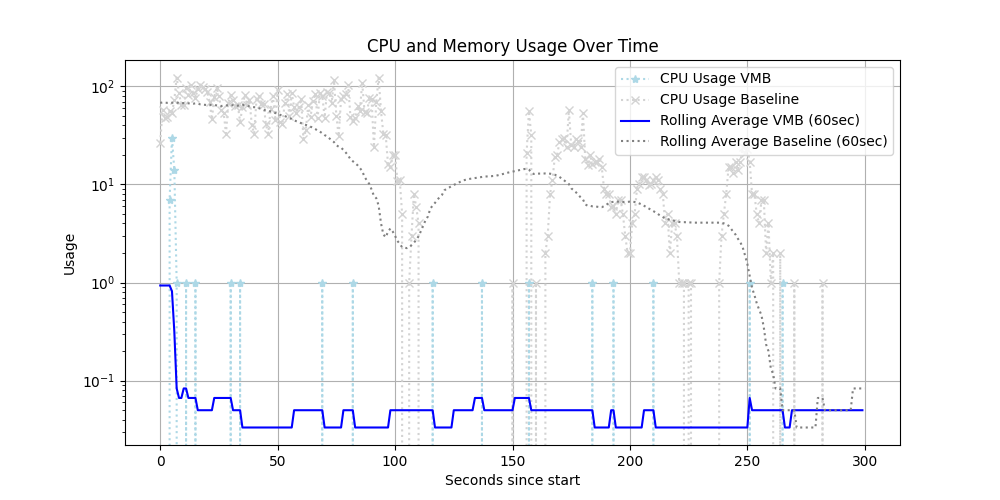
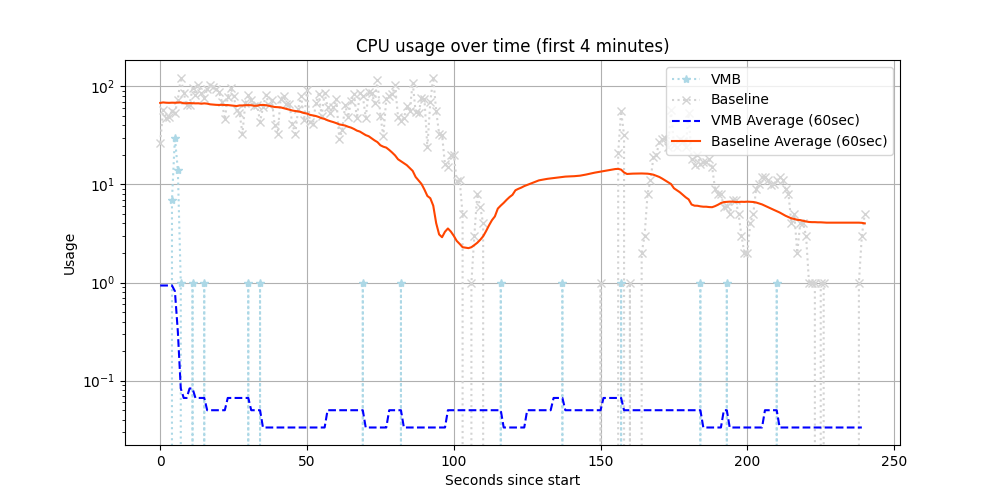
commit

diff --git a/parse-cpu.py b/parse-cpu.py
@@ -55,27 +55,27 @@ if __name__ == "__main__":
     timestamps_vmb = [x - timestamps_vmb[0] for x in timestamps_vmb]
     timestamps_baseline = [x - timestamps_baseline[0] for x in timestamps_baseline]
 
-    # Trim all data after the first 300 seconds
-    timestamps_vmb = timestamps_vmb[:300]
-    cpu_vmb = cpu_vmb[:300]
-    average_vmb = average_vmb[:300]
-    timestamps_baseline = timestamps_baseline[:300]
-    cpu_baseline = cpu_baseline[:300]
-    average_baseline = average_baseline[:300]
+    # Trim all data after the first 250 seconds
+    timestamps_vmb = timestamps_vmb[:240]
+    cpu_vmb = cpu_vmb[:240]
+    average_vmb = average_vmb[:240]
+    timestamps_baseline = timestamps_baseline[:240]
+    cpu_baseline = cpu_baseline[:240]
+    average_baseline = average_baseline[:240]
     
 
     plt.figure(figsize=(10, 5))
-    plt.plot(timestamps_vmb, cpu_vmb, label="CPU Usage VMB", color='lightblue', linestyle=':', marker='*')
-    plt.plot(timestamps_baseline, cpu_baseline, label="CPU Usage Baseline", color='lightgray', linestyle=':', marker='x')
-    plt.plot(timestamps_vmb, average_vmb, label="Rolling Average VMB (60sec)", color='blue')
-    plt.plot(timestamps_baseline, average_baseline, label="Rolling Average Baseline (60sec)", color='gray', linestyle=':')
+    plt.plot(timestamps_vmb, cpu_vmb, label="VMB", color='lightblue', linestyle=':', marker='*')
+    plt.plot(timestamps_baseline, cpu_baseline, label="Baseline", color='lightgray', linestyle=':', marker='x')
+    plt.plot(timestamps_vmb, average_vmb, label="VMB Average (60sec)", color='blue', linestyle='--')
+    plt.plot(timestamps_baseline, average_baseline, label="Baseline Average (60sec)", color='orangered')
     plt.xlabel("Seconds since start")
     plt.ylabel("Usage")
     plt.yscale('log')
     # Show rolling average
     # plt.plot(timestamps, average, label="Rolling Average (60sec)", color='orange')
 
-    plt.title("CPU and Memory Usage Over Time")
+    plt.title("CPU usage over time (first 4 minutes)")
     plt.legend()
     plt.grid()
     plt.savefig("cpu_usage.png")
